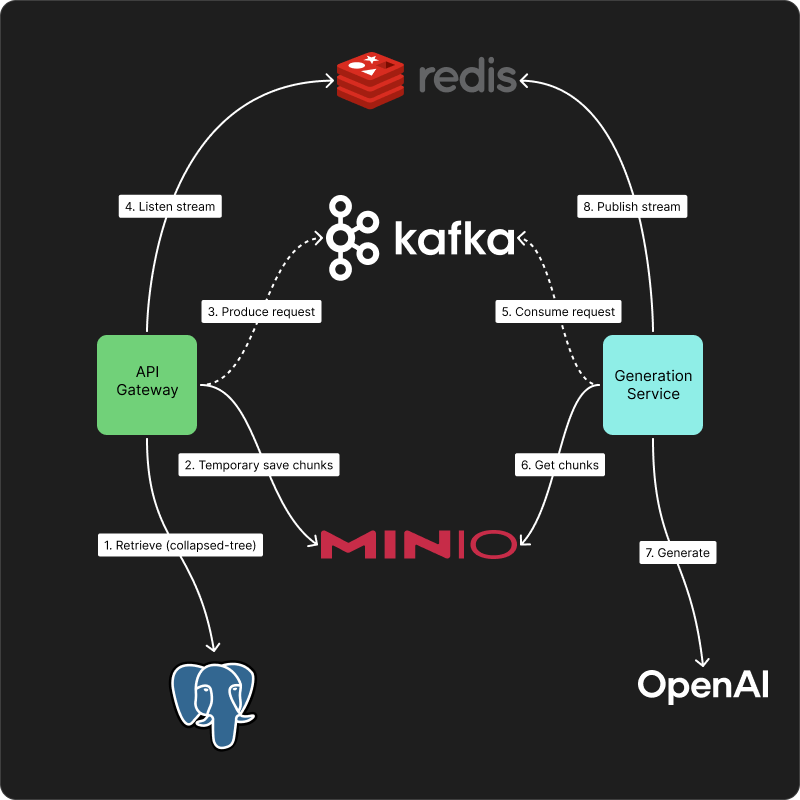
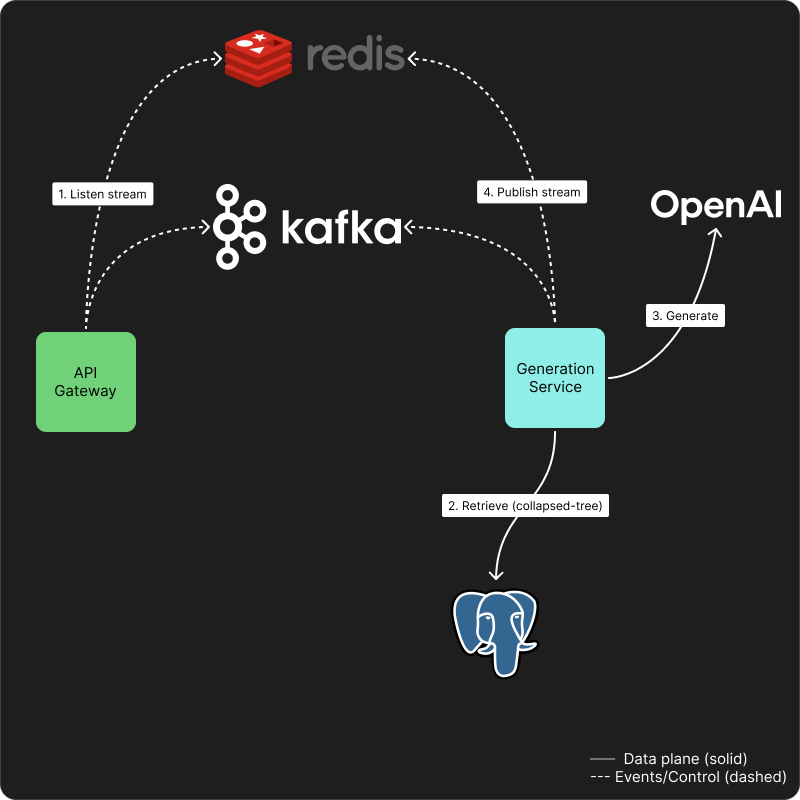
docs: update readme

diff --git a/README.md b/README.md
@@ -5,21 +5,19 @@
 
 [![Live Demo](https://img.shields.io/badge/Live%20Demo-Open-1f883d)](http://109.120.142.57)
 
-- [Primer Chat 📚](#primer-chat-)
-  - [Overview](#overview)
-  - [Demo](#demo)
-  - [Key Features](#key-features)
-  - [Quick Start](#quick-start)
-  - [How It Works](#how-it-works)
-    - [RAPTOR-like Indexing](#raptor-like-indexing)
-      - [Indexing Request](#indexing-request)
-      - [Indexing Response](#indexing-response)
-    - [Question Answering](#question-answering)
-  - [Tech Stack](#tech-stack)
-  - [Configuration \& Environments](#configuration--environments)
-  - [References \& Attribution](#references--attribution)
-  - [Contributing](#contributing)
-  - [License](#license)
+-   [Primer Chat 📚](#primer-chat-)
+    -   [Overview](#overview)
+    -   [Demo](#demo)
+    -   [Key Features](#key-features)
+    -   [Quick Start](#quick-start)
+    -   [How It Works](#how-it-works)
+        -   [RAPTOR-like Indexing](#raptor-like-indexing)
+        -   [Question Answering](#question-answering)
+    -   [Tech Stack](#tech-stack)
+    -   [Configuration \& Environments](#configuration--environments)
+    -   [References \& Attribution](#references--attribution)
+    -   [Contributing](#contributing)
+    -   [License](#license)
 
 ---
 
@@ -106,16 +104,8 @@ Upload documents, watch **real-time indexing**, and ask questions with **line-le
 5. **Persist**: chunks + summaries + embeddings → **Postgres/pgvector**; original → **S3**.
 6. **Stream progress**: step events to UI; partial retrieval works before full completion.
 
-#### Indexing Request
-
 <p align="left">
-    <img src="./docs/assets/indexing-request.png" width="600">
-</p>
-
-#### Indexing Response
-
-<p align="left">
-    <img src="./docs/assets/indexing-response.png" width="600">
+    <img src="./docs/assets/indexing.png" width="600">
 </p>
 
 ### Question Answering
